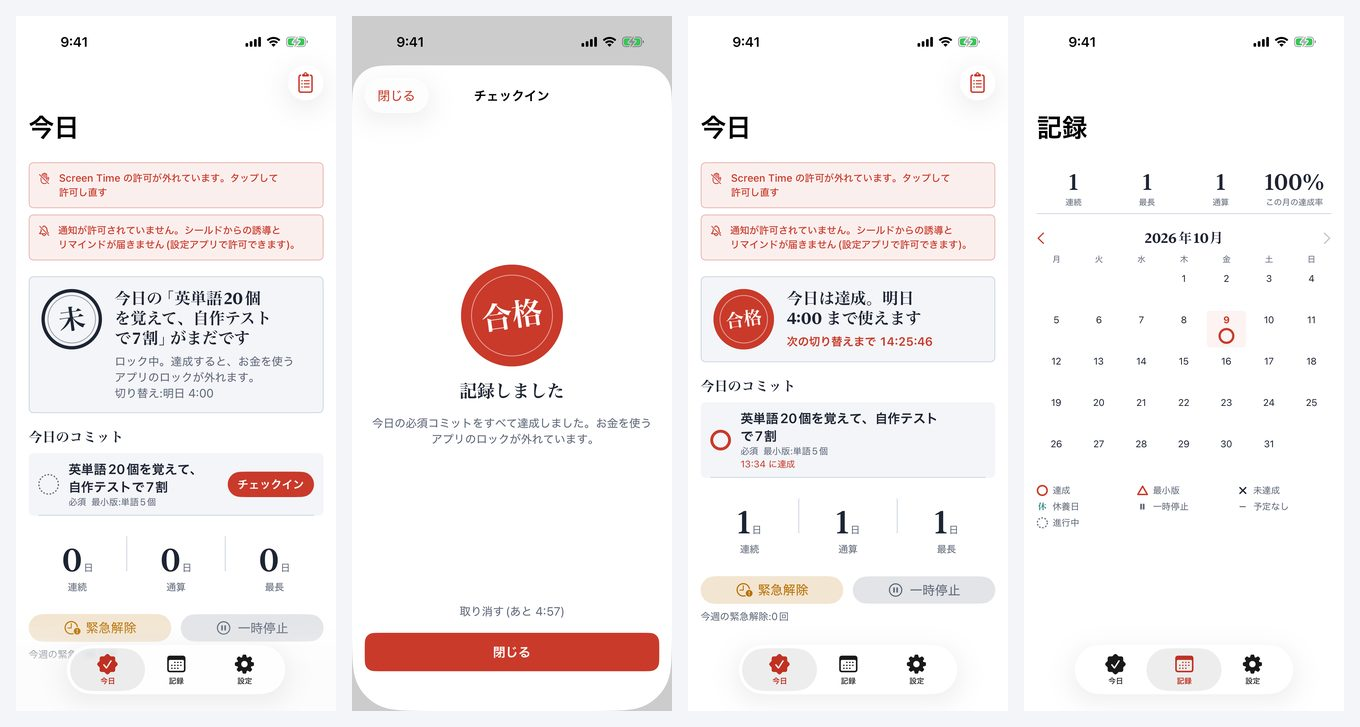
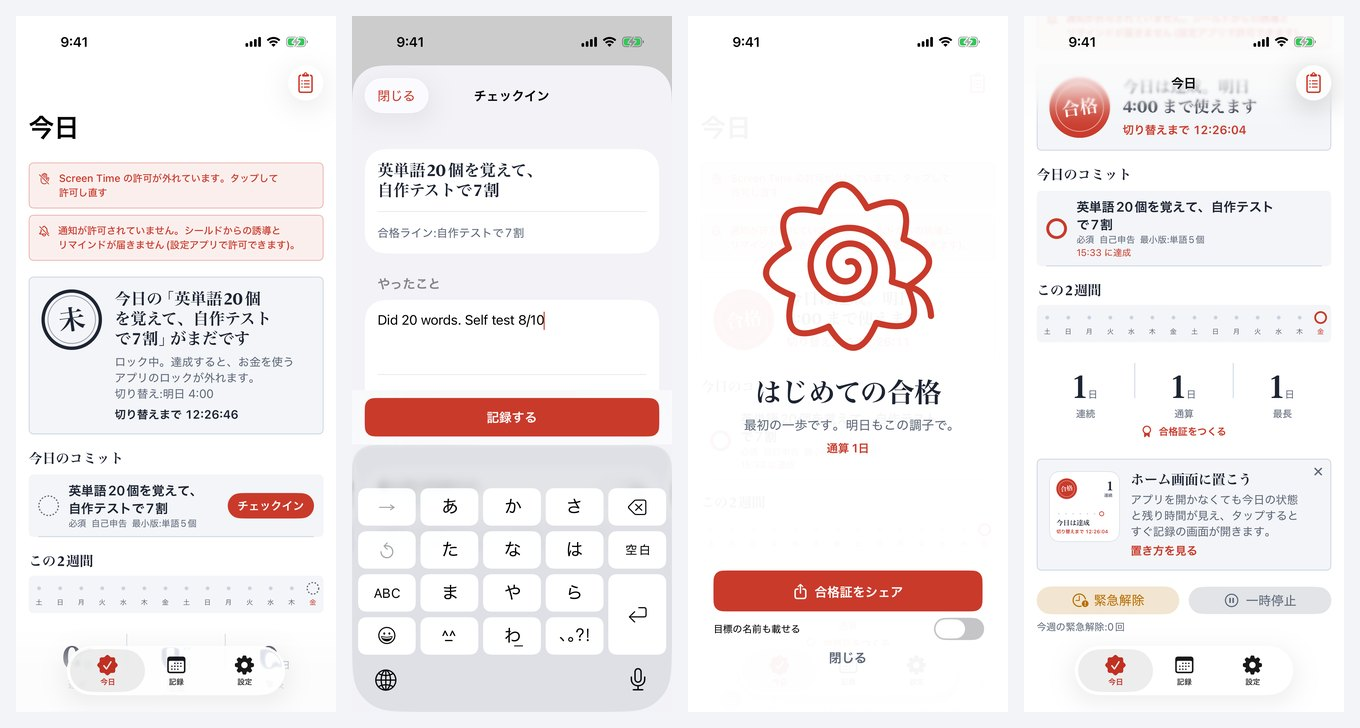
README:v1.1 の画面に差し替え、フェーズ2の範囲を明記
Claude-Session: https://claude.ai/code/session_01WnP18XdzGAN6TjHGYDukod

diff --git a/README.md b/README.md
@@ -2,15 +2,19 @@
 
 自分で決めた試験(目標)を、毎日の習慣にするための iOS アプリ。決めた時刻に、お金を使うアプリ(決済・買い物)とアプリ内課金を止め、その日のコミットを達成したと記録すると外れます。お金は没収も送金もされず、使えなくなるだけです。
 
-設計は「合格ロック 完全仕様書(iOS)v3.0」のとおりで、このリポジトリはその**フェーズ1(MVP)**を実装したものです。
+設計は「合格ロック 完全仕様書(iOS)v3.0」のとおりで、このリポジトリはその**フェーズ1(MVP)とフェーズ2**(ドメインの直接指定を除く)を実装したものです。
 
-![ホーム(未達成)・チェックイン・ホーム(達成)・記録](docs/screens-main.jpg)
+![ホーム(未達成)・チェックイン・はじめての合格(はなまる)・ホーム(達成とウィジェットの案内)](docs/screens-main.jpg)
+
+![ウィジェット・Live Activity・アイコン長押し・集中タイマー](docs/screens-native.jpg)
+
+![合格証・コミットの追加(例から選ぶ)・記録・節目で増えるアイコン](docs/screens-more.jpg)
 
 ![はじめの設定](docs/screens-setup.jpg)
 
 ![設定・緊急解除・一時停止](docs/screens-settings.jpg)
 
-スクリーンショットは CI の UI テストで撮ったもの(iPhone 17 シミュレータ・iOS 26.5)。シミュレータでは Screen Time の許可が得られないため、警告の帯が出ています。
+スクリーンショットは CI の UI テストで撮ったもの(iPhone 17 シミュレータ・iOS 26.5)。シミュレータでは Screen Time の許可が得られないため、警告の帯が出ています。ウィジェットと Live Activity は、拡張と同じビューをアプリ内の見本画面(Debug 版)で描いたものです。
 
 見た目は「答案用紙と赤ペン」:状態は丸い印(はんこ)1つで表し、達成は朱の ◯、最小版は △、未達成は ✕ で記録します。
 
@@ -63,9 +67,11 @@
 - 起動・前面復帰・バックグラウンド更新の処理(第16.4節)、再インストールと時刻改ざんの検知、共有ファイルの復旧
 - デバッグメニュー(Debug 版だけ):日付切替を任意の時刻に、緊急解除を短く、見本(ウィジェット・Live Activity・お祝い)など
 
-### まだないもの(フェーズ3)
+### まだないもの
 
-執行役(CloudKit での共有・承認)・帳簿・ヘルスケア・場所つきタイマー。判定の芯はこれらにも対応済みです。
+執行役(CloudKit での共有・承認)・帳簿・ヘルスケア・場所つきタイマー(以上フェーズ3)。判定の芯はこれらにも対応済みです。
+
+フェーズ2のうち「ドメインの直接指定」だけは入れていません。仕様書の SP-12 のとおり、iOS 26.6 で指定外のサイトまで止まる報告があり、Safari のプライベートブラウズも使えなくなるため、実機で確かめてから足します(買い物サイトは、ロック対象の選択画面でサイトとして選べば止まります)。
 
 ## ダウンロード
 
